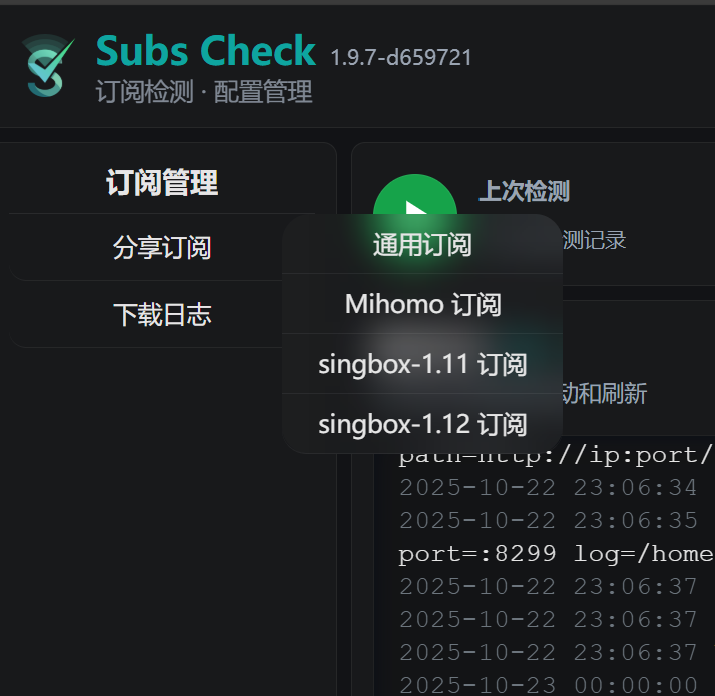
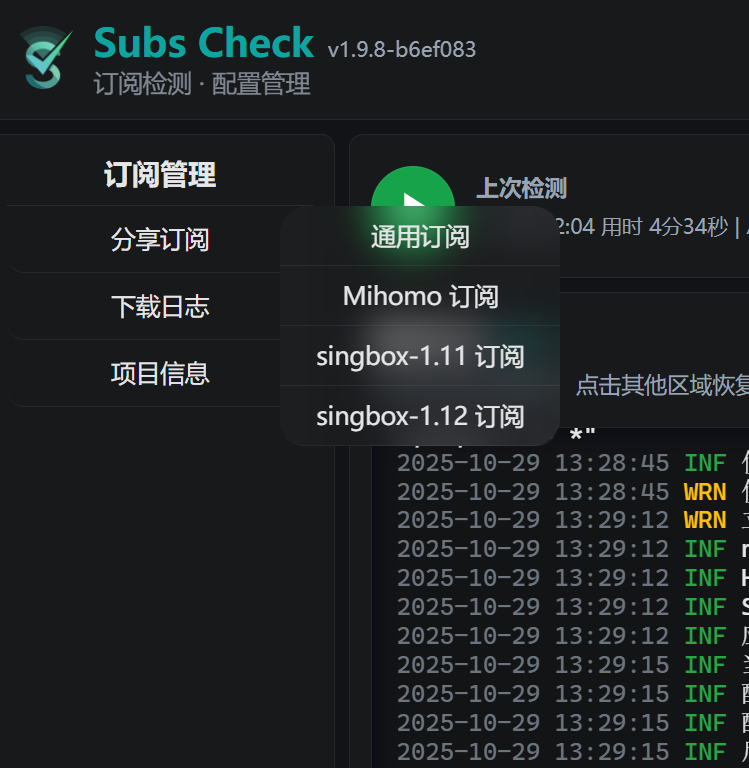
perf: 优化内置文件服务，更新readme文档

diff --git a/app/server.go b/app/server.go
@@ -9,6 +9,7 @@ import (
 	"log/slog"
 	"net/http"
 	"os"
+	"path/filepath"
 	"strings"
 	"time"
 
@@ -53,16 +54,28 @@ func (app *App) initHTTPServer() error {
 	// CM佬用的布丁狗
 	router.StaticFile("/sub/bdg.yaml", saver.OutputPath+"/bdg.yaml")
 
+	if config.GlobalConfig.APIKey == "" {
+		if apiKey := os.Getenv("API_KEY"); apiKey != "" {
+			config.GlobalConfig.APIKey = apiKey
+		} else {
+			config.GlobalConfig.APIKey = GenerateSimpleKey()
+			slog.Warn("未设置api-key，已生成一个随机api-key", "api-key", config.GlobalConfig.APIKey)
+		}
+	}
+
+	// 提供一个相对安全暴露 output 文件夹的方案
+	router.Static("/"+config.GlobalConfig.APIKey+"/sub/", saver.OutputPath)
+
+	// 提供一个用户自由分享暴露的文件夹
+	moreDIR := filepath.Join(saver.OutputPath, "more")
+	if err := os.MkdirAll(moreDIR, 0755); err != nil {
+		return fmt.Errorf("创建用户自定义目录失败: %w", err)
+	}
+
+	router.Static("/more/", saver.OutputPath+"/more")
+
 	// 根据配置决定是否启用Web控制面板
 	if config.GlobalConfig.EnableWebUI {
-		if config.GlobalConfig.APIKey == "" {
-			if apiKey := os.Getenv("API_KEY"); apiKey != "" {
-				config.GlobalConfig.APIKey = apiKey
-			} else {
-				config.GlobalConfig.APIKey = GenerateSimpleKey()
-				slog.Warn("未设置api-key，已生成一个随机api-key", "api-key", config.GlobalConfig.APIKey)
-			}
-		}
 		slog.Info("启用Web控制面板", "path", "http://ip:port/admin", "api-key", config.GlobalConfig.APIKey)
 
 		// 设置模板加载 - 只有在启用Web控制面板时才加载